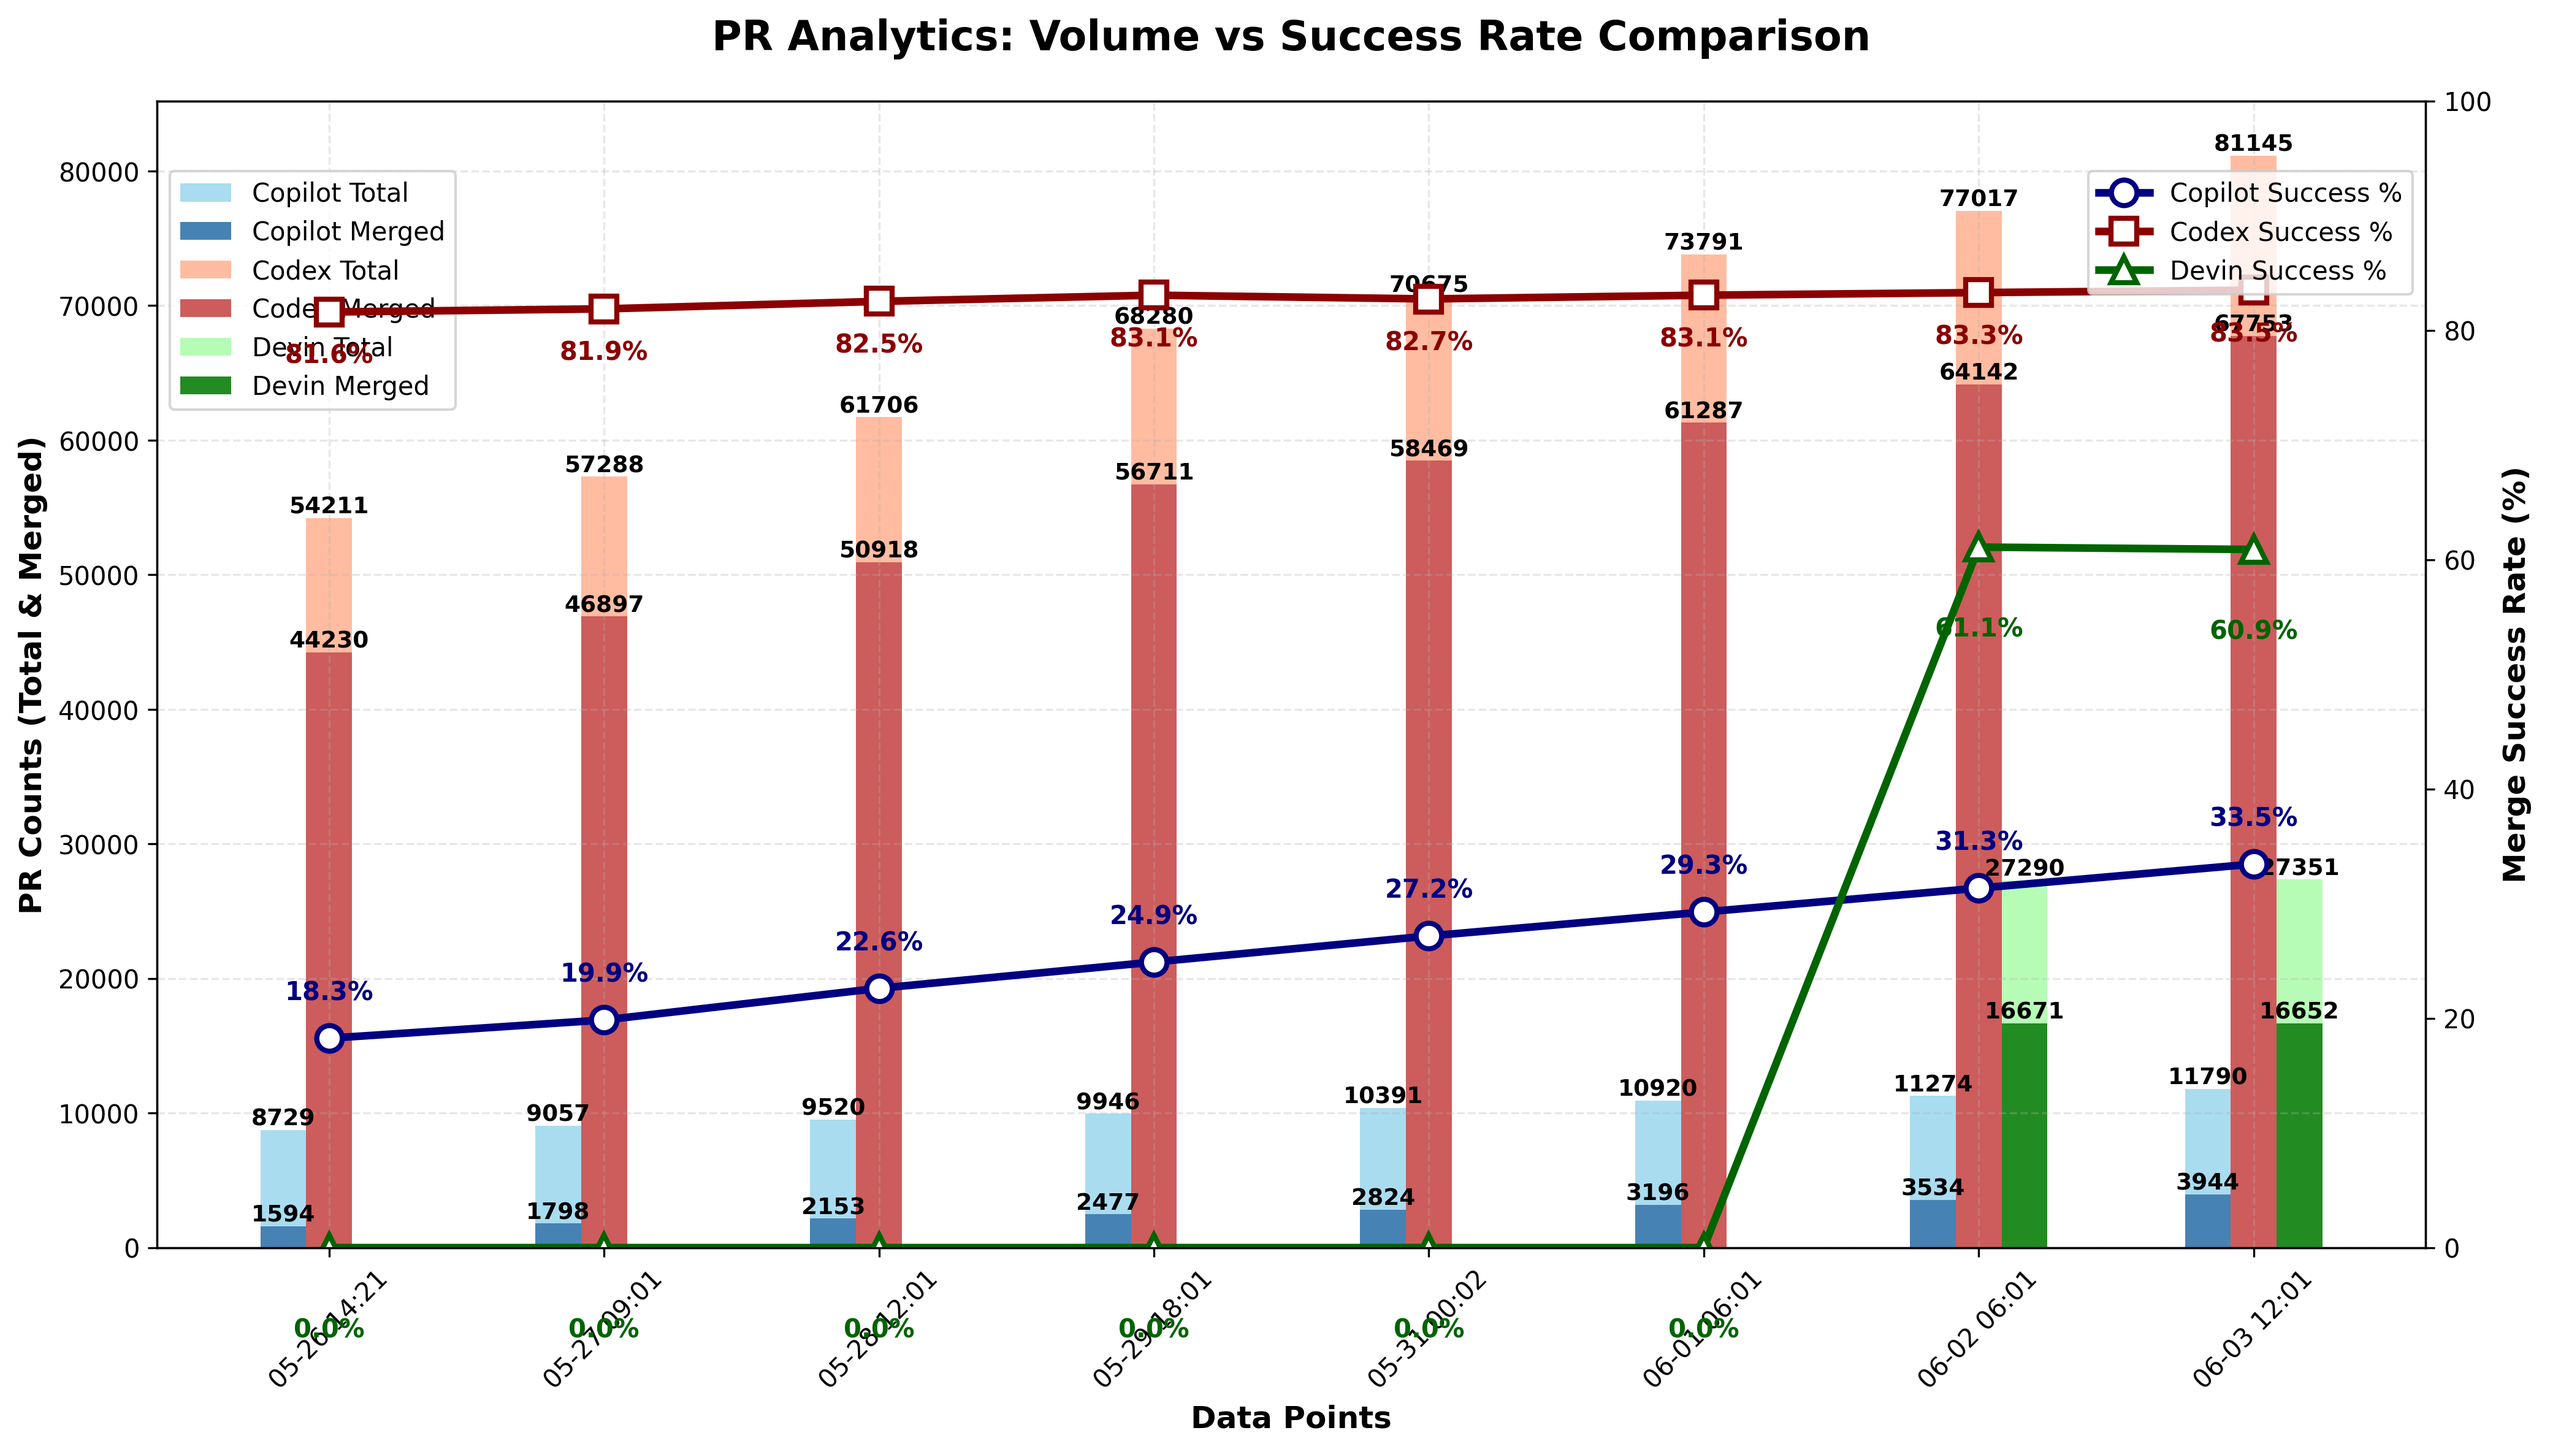
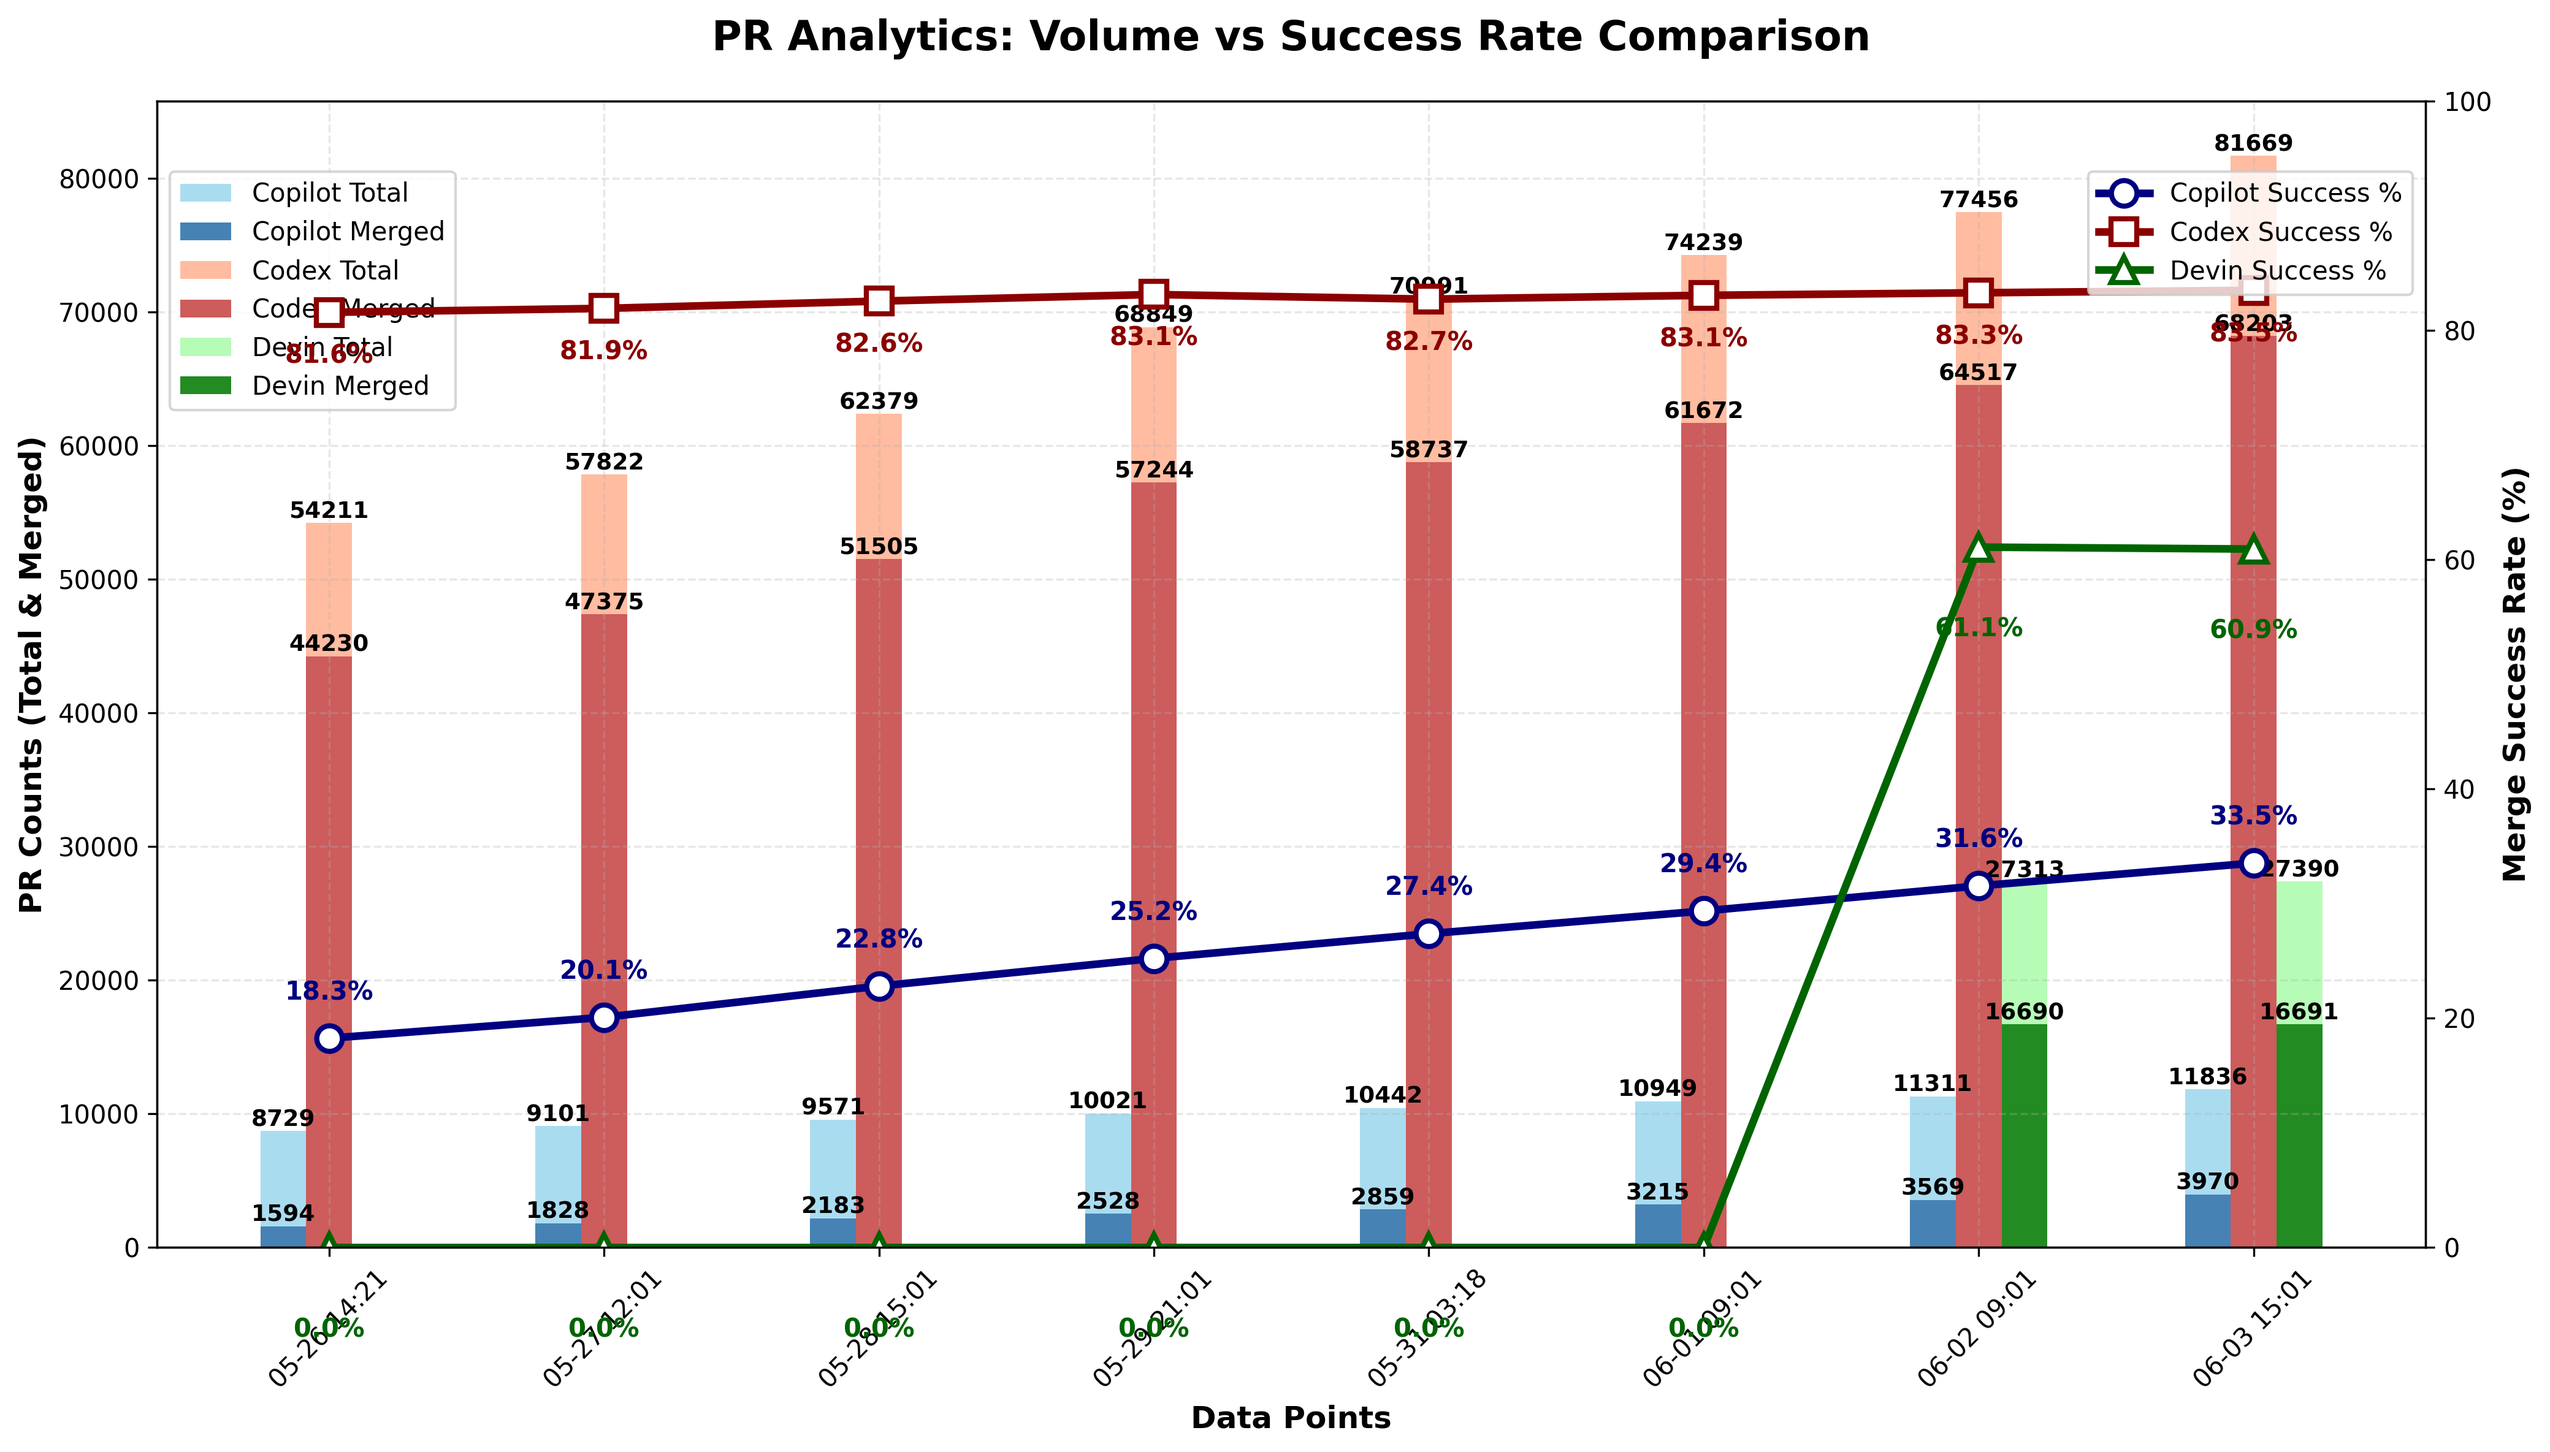
chore: update PR‑approval chart

diff --git a/docs/index.html b/docs/index.html
@@ -46,22 +46,22 @@
                 <tbody>
                     <tr>
                         <td>Copilot</td>
-                        <td>11,790</td>
-                        <td>3,944</td>
-                        <td>33.45%</td>
+                        <td>11,836</td>
+                        <td>3,970</td>
+                        <td>33.54%</td>
                     </tr>
                     <tr>
                         <td>Codex</td>
-                        <td>81,145</td>
-                        <td>67,753</td>
-                        <td>83.50%</td>
+                        <td>81,669</td>
+                        <td>68,203</td>
+                        <td>83.51%</td>
                     </tr>
                 </tbody>
             </table>
         </section>
 
         <footer>
-            <p>Last updated: <span id="last-updated">June 03, 2025 12:01 UTC</span></p>
+            <p>Last updated: <span id="last-updated">June 03, 2025 15:01 UTC</span></p>
             <p><a href="https://github.com/aavetis/ai-pr-watcher">View on GitHub</a></p>
         </footer>
     </div>

diff --git a/README.md b/README.md
@@ -21,6 +21,6 @@ Explore the GitHub search queries used:
 
 | Project | Total PRs | Merged PRs | Merge Rate |
 | ------- | --------- | ---------- | ---------- |
-| Copilot | 11,790 | 3,944 | 33.45% |
-| Codex   | 81,145 | 67,753 | 83.50% |
-| Devin   | 27,351 | 16,652 | 60.88% |
+| Copilot | 11,836 | 3,970 | 33.54% |
+| Codex   | 81,669 | 68,203 | 83.51% |
+| Devin   | 27,390 | 16,691 | 60.94% |
